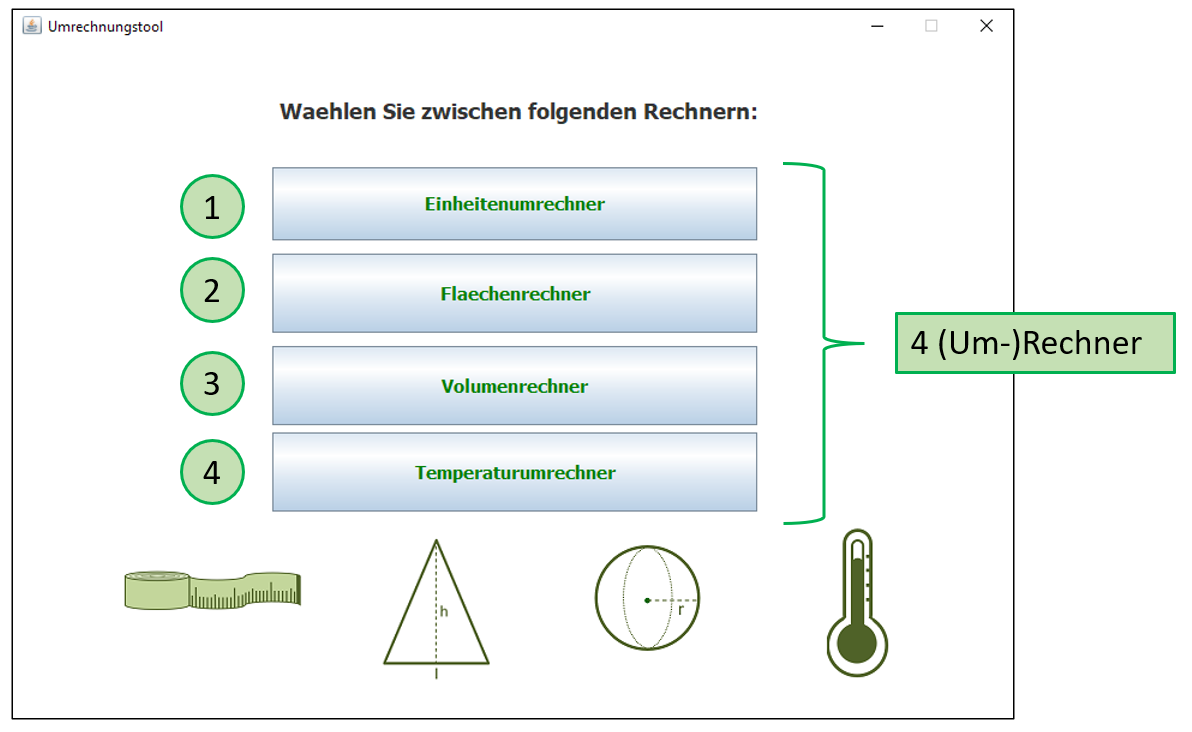
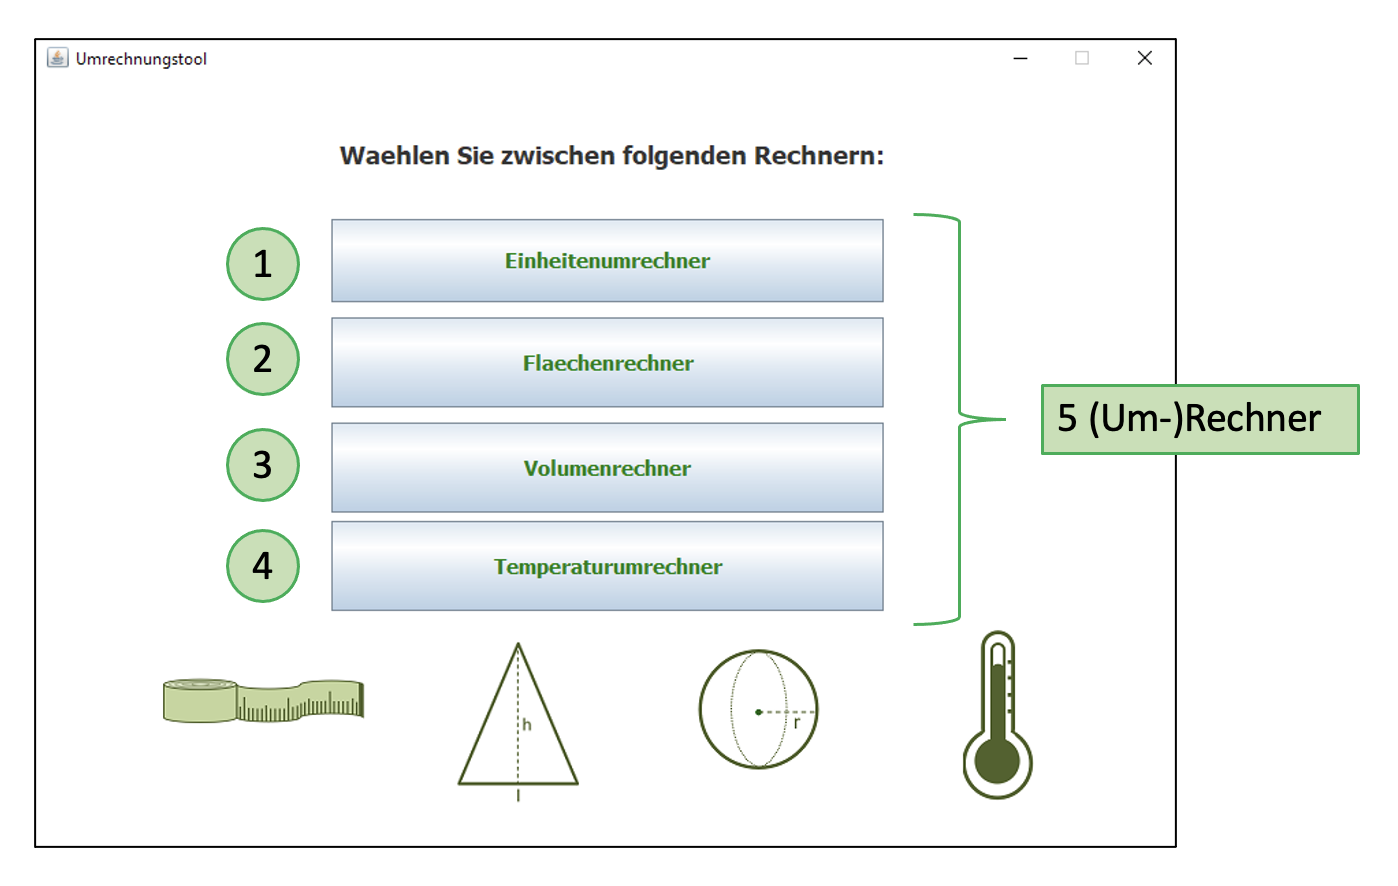
Anfang Handbuch

diff --git a/3_Dokumentation/Handbuch/index.html b/3_Dokumentation/Handbuch/index.html
@@ -30,32 +30,57 @@
   <li>Leon Welker (leon.tenzin.welker@hs-furtwangen.de)</li>
 </ul>
 
+--------------------------------------------------------------------------------------------------------------------------------------
+
 <main> </main>
 <h2>Einleitung</h2>
 Das (Um-)Rechnungstool ist ein universell einsetzbares Programm zum L&ouml;sen&nbsp;<span style="color: rgb(0, 0, 0); font-family: &quot;Times New Roman&quot;; font-size: medium; font-style: normal; font-weight: 400; letter-spacing: normal; orphans: 2; text-align: start; text-indent: 0px; text-transform: none; white-space: normal; widows: 2; word-spacing: 0px; display: inline ! important; float: none;">einfacher
 Umrechnungen zwischen verschiedenen Einheiten, sowie zur Berechnung von
-geometrischen und mathematischen Gr&ouml;&szlig;en und Formen.</span>.
+geometrischen und mathematischen Gr&ouml;&szlig;en und Formen.</span>
 Durch die intuitive und einfach aufgebaute Benutzeroberfl&auml;che
 gelangen sie schnell und einfach zu Ihrem gew&uuml;nschten Rechentool
 und k&ouml;nnen die L&ouml;sung im Handumdrehen in der gew&uuml;nschten
 Einheit ablesen.<br>
 <br>
+
+--------------------------------------------------------------------------------------------------------------------------------------
+
 <big><big><span style="font-weight: bold;">Schritt-f&uuml;r-Schritt-Anleitung:</span></big></big><br>
 <br>
-<big><span style="font-weight: bold;">0. Hauptmen&uuml;</span></big><br>
-<br>
+<big><span style="font-weight: bold;">1. Hauptmen&uuml;</span></big><br>
+<p>
+Wird das Programm gestartet, öffnet sich das unten gezeigte Fenster und der Nutzer hat die Möglichkeit sich zwischen einer der vier aufgeführten Be- bzw Umrechen Optionen zu entscheiden. Nach der Wahl und dem anklicken wird der Nutzer zu der entsprechenden Seite weitergeleitet.
+<p>
+</ul>
 <table style="text-align: left; width: 987px; height: 32px;" border="1" cellpadding="2" cellspacing="2">
-  <tbody>
-    <tr>
-      <td style="width: 36px;"></td>
-      <td style="width: 1402px;"></td>
     </tr>
-  </tbody>
+
+      <td style="width: 37px;">1.</td>
+      <td style="width: 1186px;">Weiterleitung zum Einheitenumrechner</td>
+
+    <tr>
+      <td style="width: 37px;">2.</td>
+      <td style="width: 1186px;">Weiterleitung zum Flächenberechner</td>
+    </tr>
+    <tr>
+      <td style="width: 37px;">3.</td>
+      <td style="width: 1186px;">Weiterleitung zum Volumenberechner</td>
+    </tr>
+    <tr>
+      <td style="width: 37px;">4.</td>
+      <td style="width: 1186px;">Weiterleitung zum Temperaturumrechner</td>
+    </tr>
+    <tr>
+      <td style="width: 37px;">5.</td>
+      <td style="width: 1186px;">Die gesamten Auswahlmöglichkeiten</td>
 </table>
 <br>
+
+--------------------------------------------------------------------------------------------------------------------------------------
+
 <img style="width: 707px; height: 432px;" alt="Bild Hauptmen&uuml;" src="images/Hauptmenue.png"><br>
 <br>
-<big><span style="font-weight: bold;">1. Einheitenumrechner</span></big><br>
+<big><span style="font-weight: bold;">2. Einheitenumrechner</span></big><br>
 <br>
 <table style="text-align: left; width: 927px; height: 172px;" border="1" cellpadding="2" cellspacing="2">
   <tbody>
@@ -90,4 +115,55 @@ durch Auswahl eines Elements aus dem Drop-Down-Men&uuml;.</td>
 <br>
 <img style="width: 608px; height: 435px;" alt="Bild Einheitenumrechner" src="images/Einheitenumrechner.png">&nbsp;<footer></footer>
 </body>
+
+--------------------------------------------------------------------------------------------------------------------------------------
+
+<big><span style="font-weight: bold;">2. Einheitenumrechner</span></big><br>
+<br>
+<table style="text-align: left; width: 927px; height: 172px;" border="1" cellpadding="2" cellspacing="2">
+  <tbody>
+    <tr>
+      <td style="width: 37px;">1.</td>
+      <td style="width: 1186px;">W&auml;hlen der gew&uuml;nschten
+geometrischen Gr&ouml;&szlig;e (L&auml;nge/Fl&auml;che/Volumen/Gewicht)
+durch Auswahl eines Elements aus dem Drop-Down-Men&uuml;.</td>
+    </tr>
+    <tr>
+      <td style="width: 37px;">2.</td>
+      <td style="width: 1186px;">W&auml;hlen der gew&uuml;nschten mathematischen Eingabeeinheit aus dem Drop-Down-Men&uuml;.</td>
+    </tr>
+    <tr>
+      <td style="width: 37px;">3.</td>
+      <td style="width: 1186px;">W&auml;hlen der gew&uuml;nschten mathematischen Ausgabeeinheit aus dem Drop-Down-Men&uuml;.</td>
+    </tr>
+    <tr>
+      <td style="width: 37px;">4.</td>
+      <td style="width: 1186px;">Eingabe des entsprechenden Eingabewerts (Kommazahlen mit Punkt "." und <span style="text-decoration: underline;">nicht</span> mit Komma ","!)</td>
+    </tr>
+    <tr>
+      <td style="width: 37px;">5.</td>
+      <td style="width: 1186px;">Starten des Einheitenumrechners durch Klicken auf den "Start"-Button.</td>
+    </tr>
+    <tr>
+      <td style="width: 37px;">6.</td>
+      <td style="width: 1186px;">Um zum Hauptmen&uuml; zur&uuml;ckzugelangen, den "Hauptmen&uuml;"-Button dr&uuml;cken</td>
+    </tr>
+  </tbody>
+</table>
+<br>
+<img style="width: 608px; height: 435px;" alt="Bild Einheitenumrechner" src="images/Einheitenumrechner.png">&nbsp;<footer></footer>
+</body>
+
+--------------------------------------------------------------------------------------------------------------------------------------
+
+
+--------------------------------------------------------------------------------------------------------------------------------------
+
+
+--------------------------------------------------------------------------------------------------------------------------------------
+
+
+--------------------------------------------------------------------------------------------------------------------------------------
+
 </html>
+
